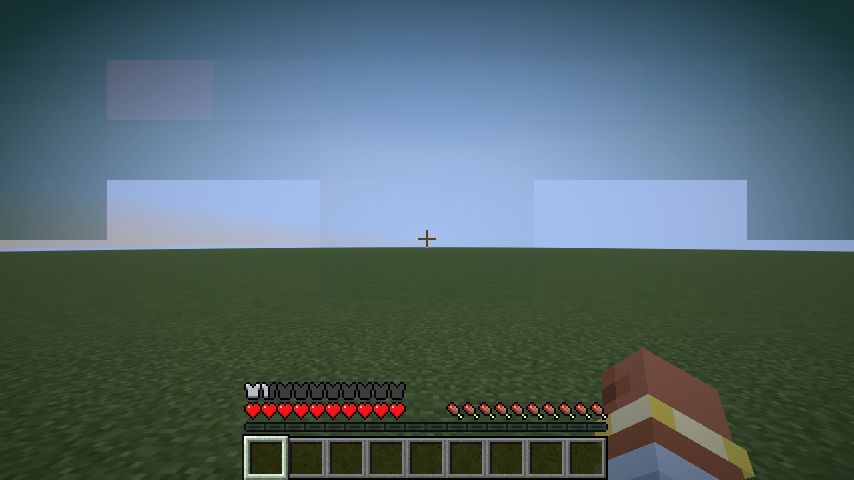
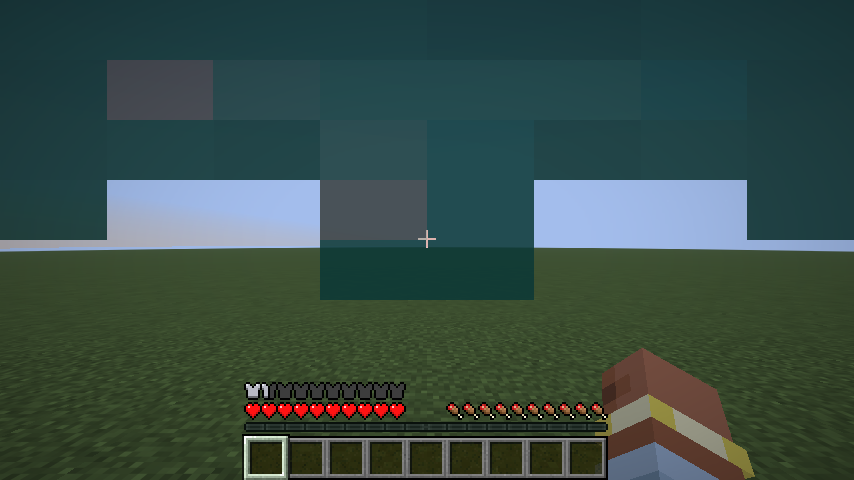
🎨 Supprime la vignette radiale — assombrissement uniforme des pixels
La vignette créait un effet de "rond" indésirable. Désormais tous les
pixels solides de la texture sont assombris uniformément (couleur × 0.25,
alpha fixe à 217). Mise à jour des 6 overlays et des templates GameTest.

diff --git a/scripts/generate_overlay.py b/scripts/generate_overlay.py
@@ -36,7 +36,6 @@ FACE_SIZE     = 8   # Taille de la face (carré 8×8 en résolution 16)
 DEFAULT_OUTPUT_SIZE = 512
 MAX_ALPHA        = 217   # ~85 % d'opacité max — identique aux overlays existants
 BLUR_RADIUS_PCT  = 0.0   # 0 = pas de flou, pixels nets (mettre ex. 0.004 pour adoucir légèrement)
-VIGNETTE_POWER   = 1.8   # Exposant du dégradé radial (plus élevé = bords plus marqués)
 
 
 def _load_face(path: str, face_x: int, face_y: int, face_size: int) -> Image.Image:
@@ -96,20 +95,12 @@ def generate_overlay(
         result = result.filter(ImageFilter.GaussianBlur(radius=blur_radius))
 
     # ── Assombrissement : couleur × 0.25 (teinte préservée) ──
+    # Alpha fixe sur tous les pixels solides — pas de vignette radiale
     arr = np.array(result, dtype=np.float32)
     arr[:, :, 0] *= 0.25
     arr[:, :, 1] *= 0.25
     arr[:, :, 2] *= 0.25
-
-    # ── Vignette radiale : centre transparent → bords opaques ──
-    y_idx, x_idx = np.mgrid[0:output_size, 0:output_size]
-    cx, cy = output_size / 2.0, output_size / 2.0
-    dist = np.sqrt((x_idx - cx) ** 2 + (y_idx - cy) ** 2)
-    max_dist = np.sqrt(cx ** 2 + cy ** 2)
-    vignette = np.clip(dist / max_dist, 0.0, 1.0) ** VIGNETTE_POWER
-
-    # ── Plafond d'opacité + vignette ──
-    arr[:, :, 3] = np.minimum(arr[:, :, 3] * vignette, MAX_ALPHA)
+    arr[:, :, 3] = np.where(arr[:, :, 3] > 0, MAX_ALPHA, 0)
     arr = arr.astype(np.uint8)
 
     out = Image.fromarray(arr)
